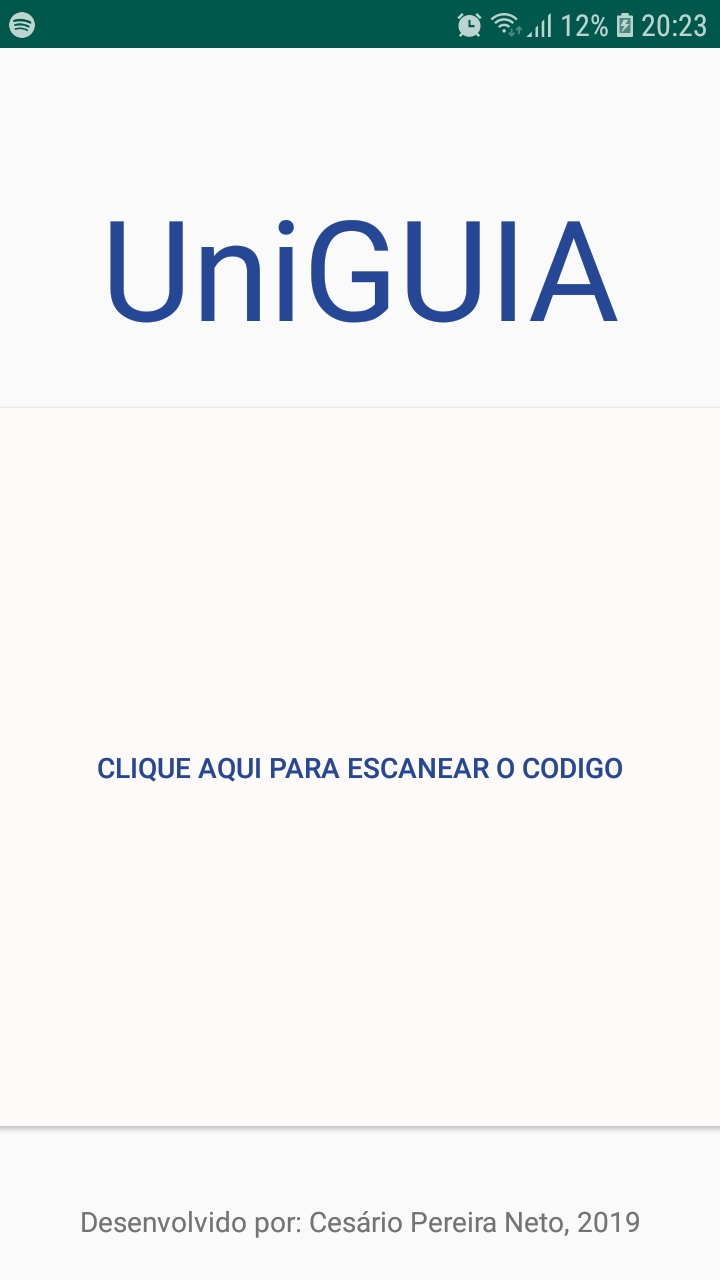
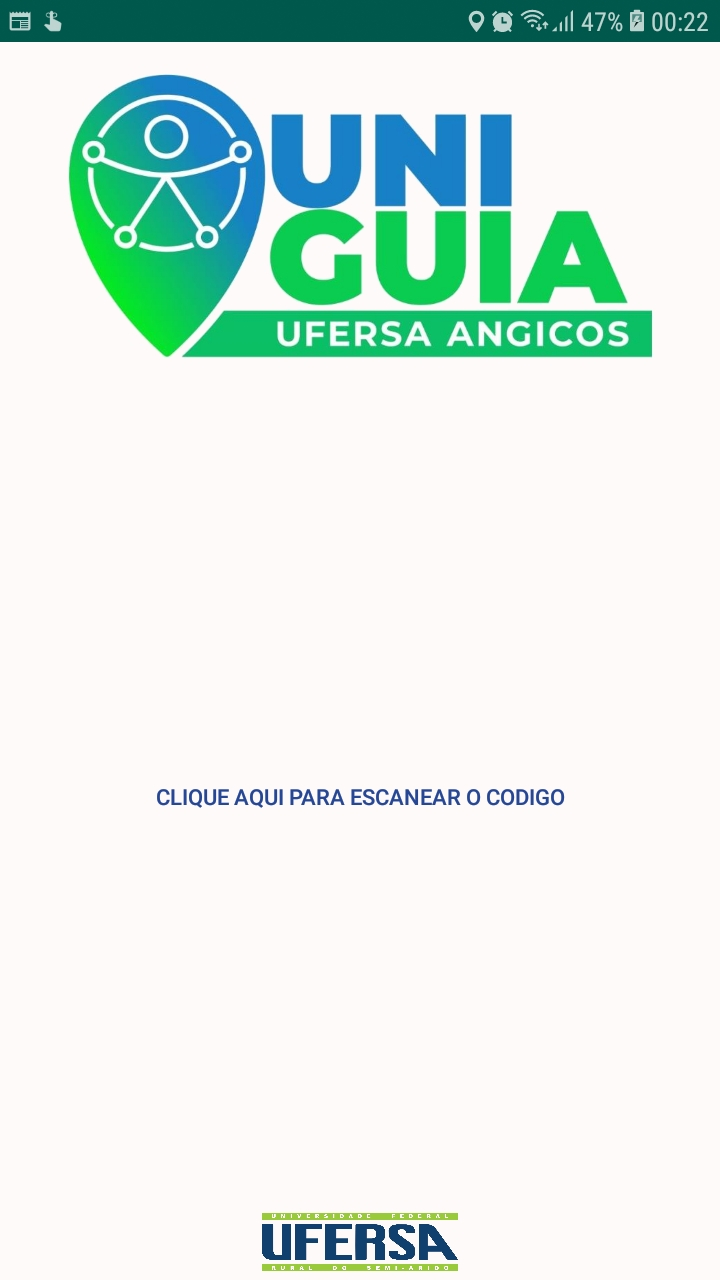
Mudança de interface do aplicativo. Versão BETA do aplicativo.

Changed region(s): [[0.0, 0.0, 1.0, 0.2812], [0.1222, 0.9375, 0.8861, 1.0], [0.1222, 0.5938, 0.8556, 0.625]]

diff --git a/README.md b/README.md
@@ -5,4 +5,3 @@ Projeto para o TCC1 do curso de Bacharelado em Sistemas de Informação.
 <br/>
 <img src="screanshots/telainicial.jpg">
 <img src="screanshots/leituraqr.jpg">
-<img src="screanshots/resultadodaleitura.jpg">
